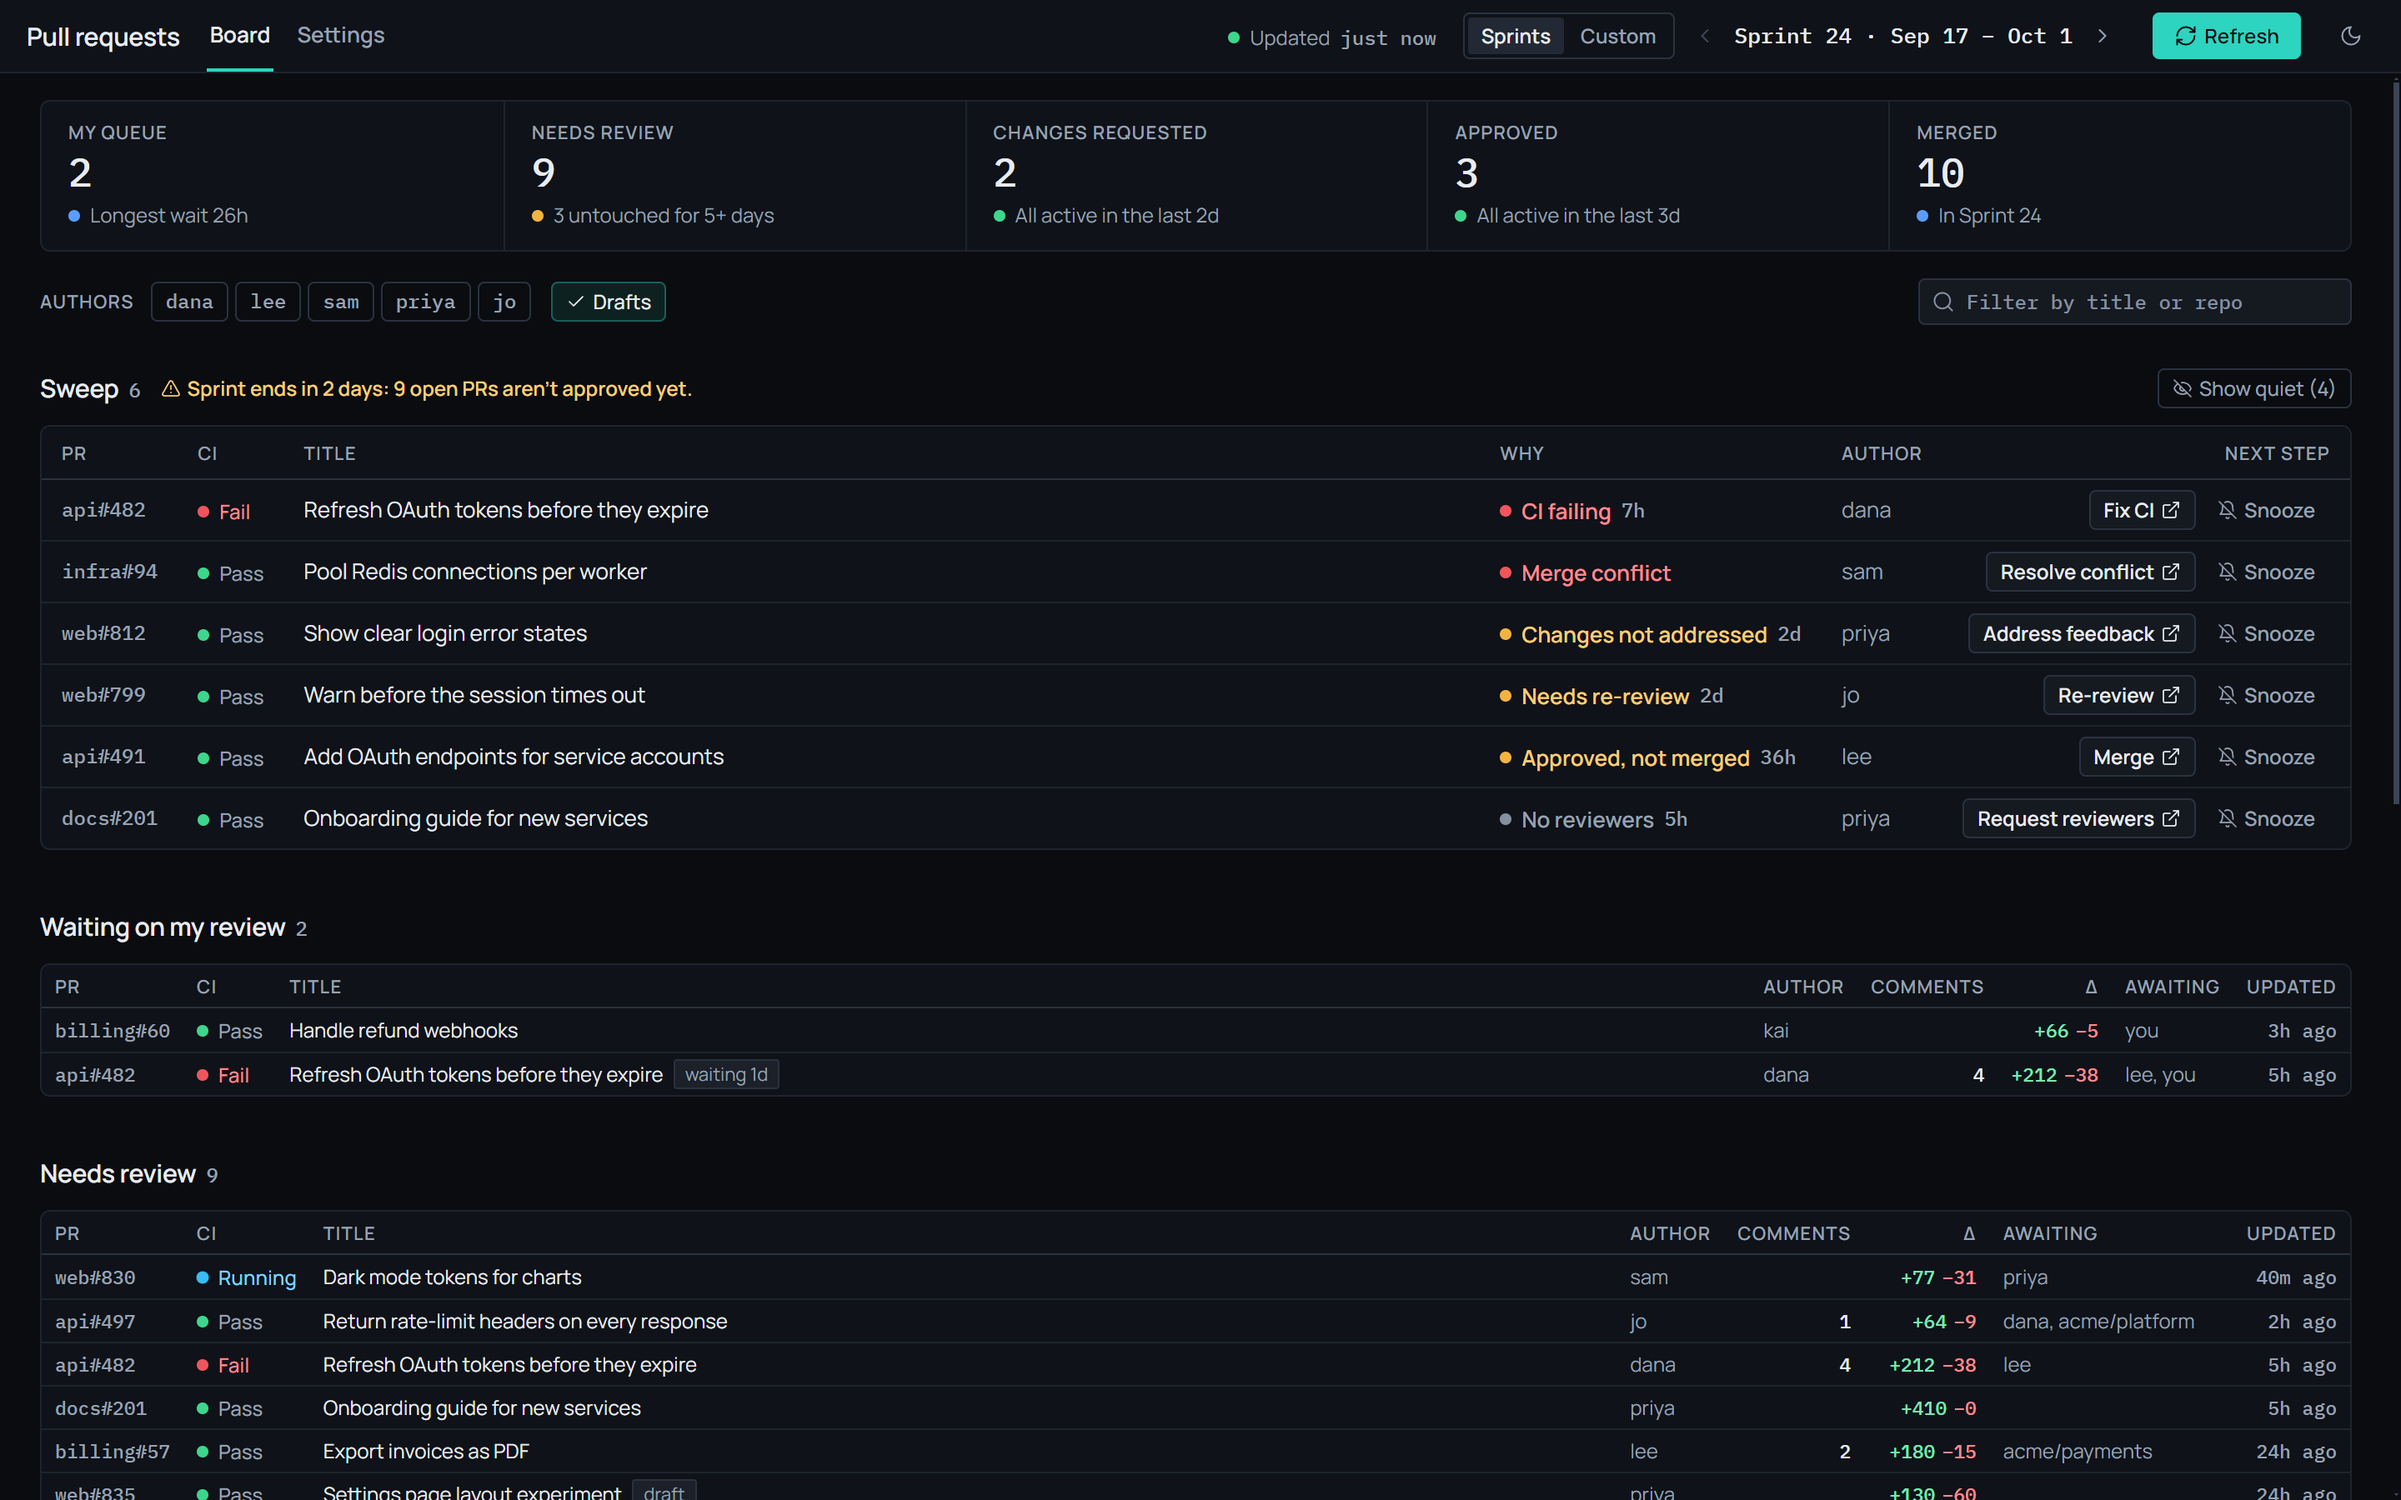
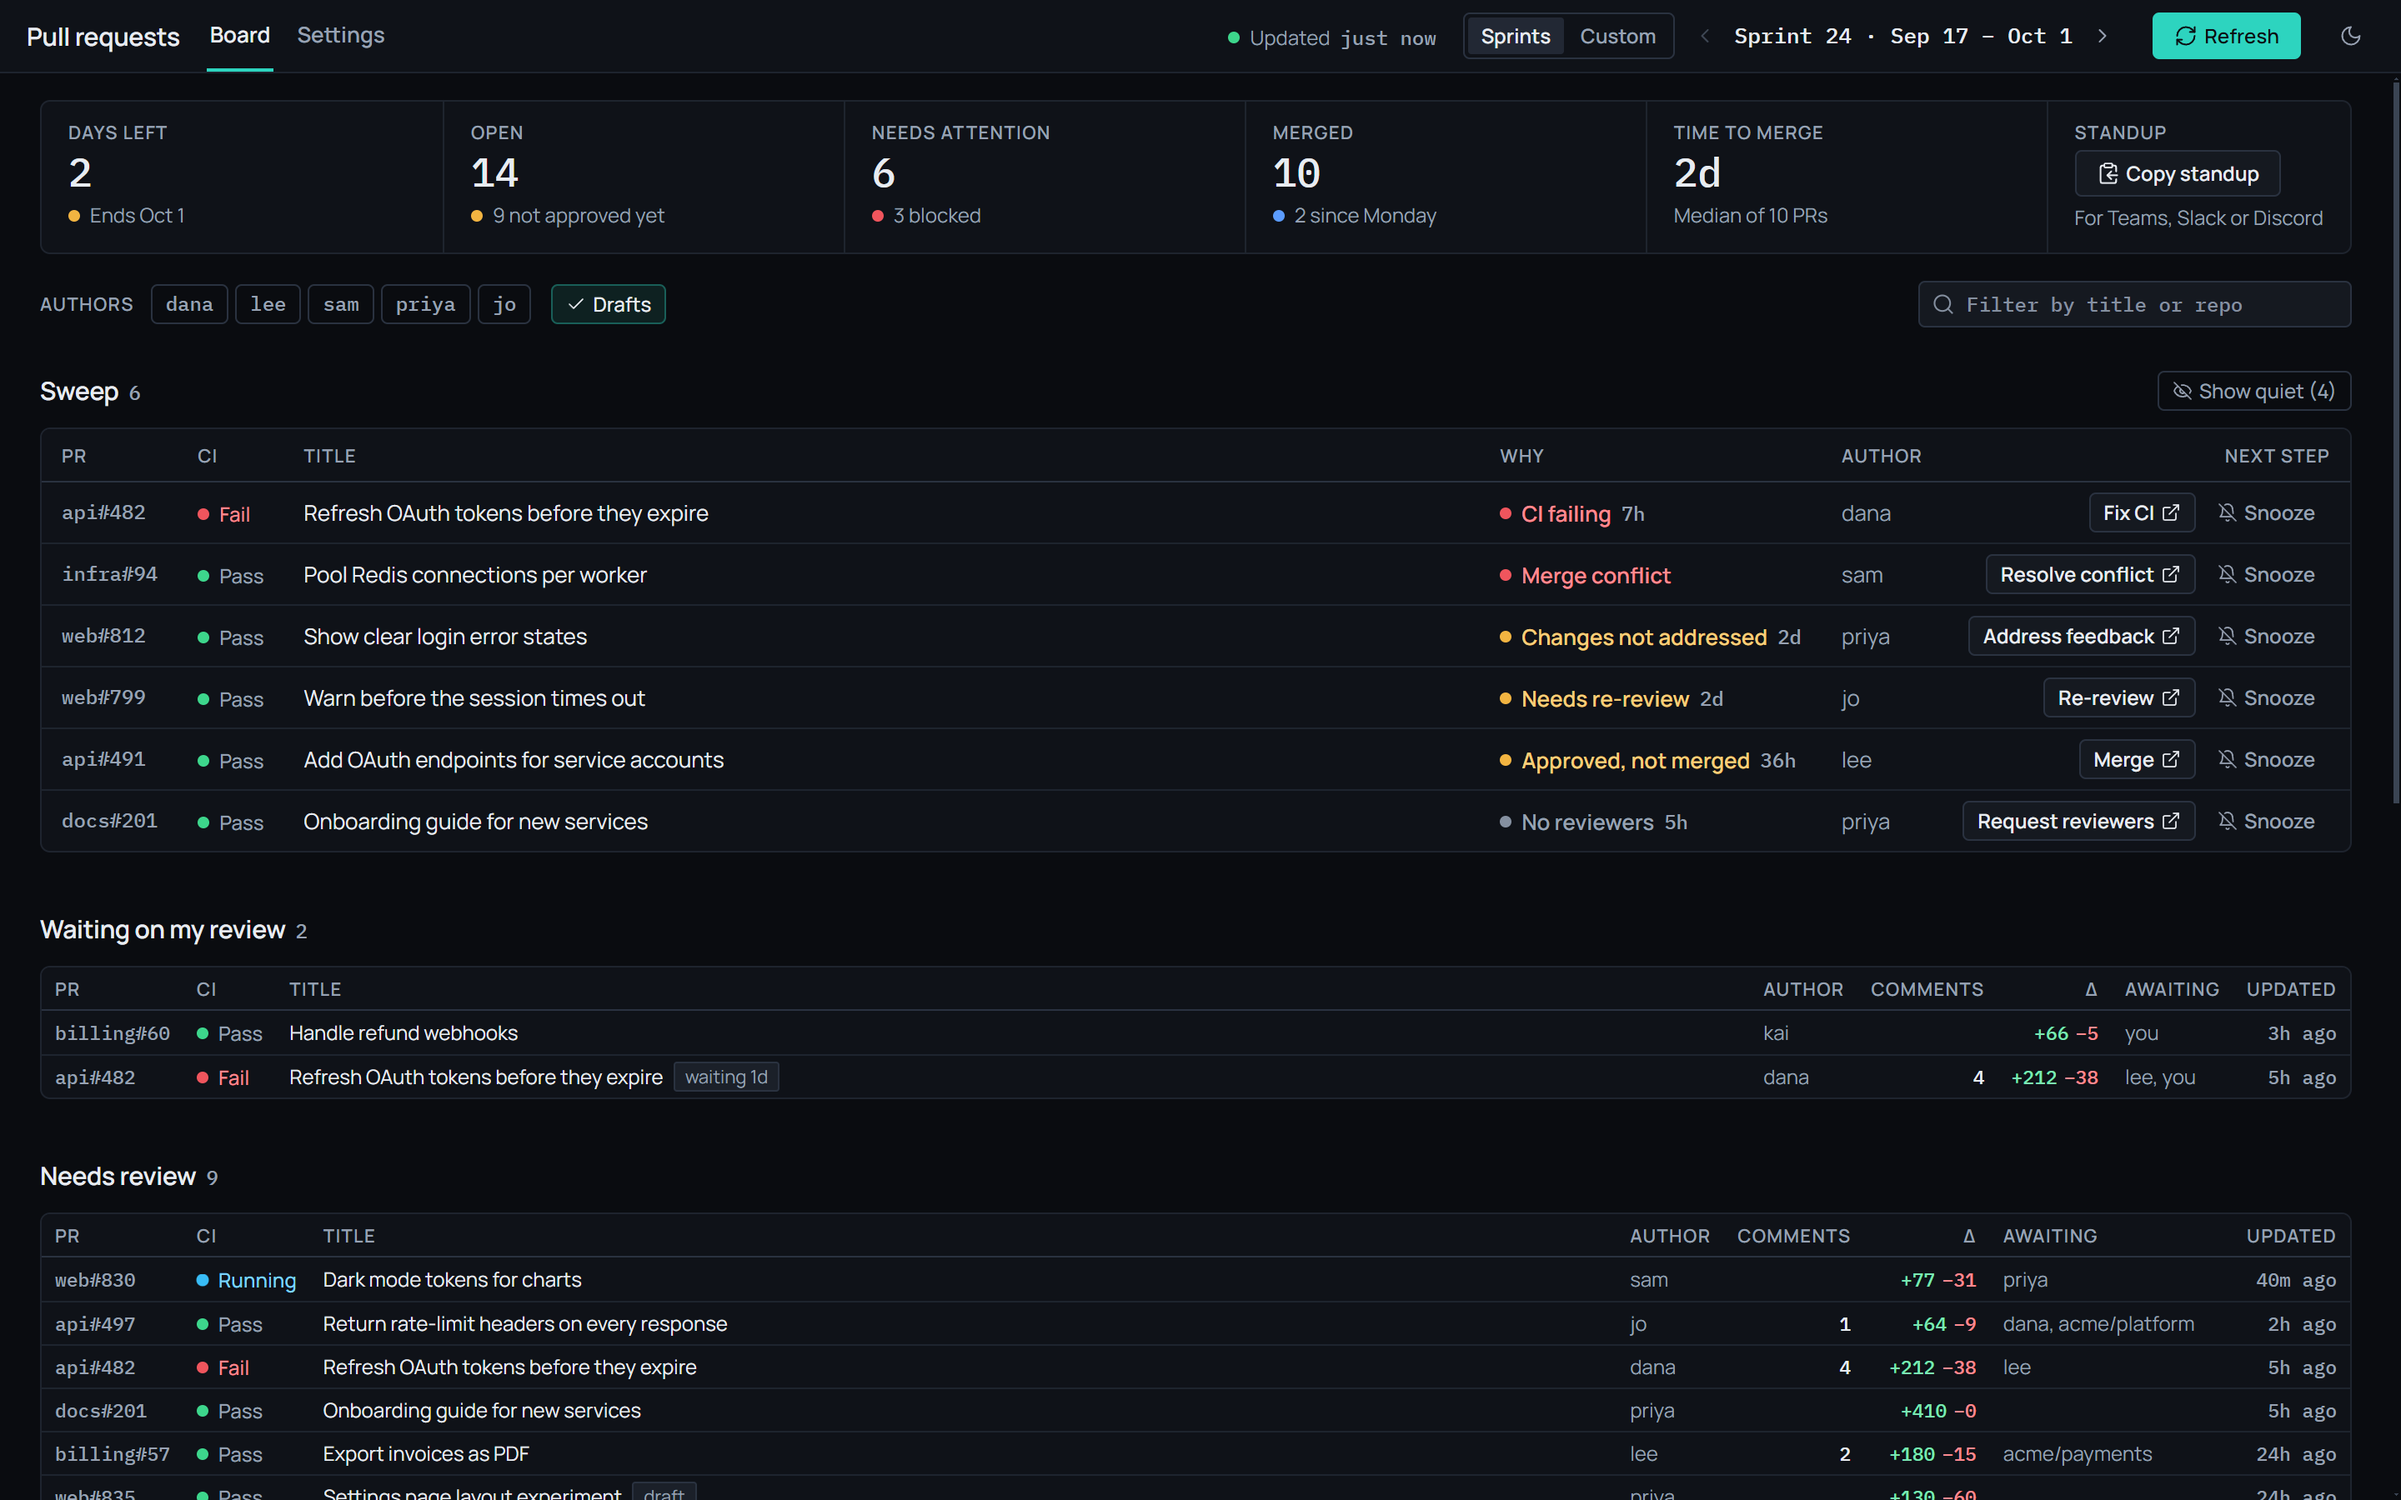
docs(readme): the sprint summary and Copy standup, with new screenshots

diff --git a/README.md b/README.md
@@ -24,7 +24,7 @@ Set the org, the team and your sprint schedule once. It refreshes every five min
 
 <picture>
   <source media="(prefers-color-scheme: dark)" srcset="docs/screenshots/board-dark.png">
-  <img alt="The board for a sample team in Sprint 24: a strip of counts for My queue, Needs review, Changes requested, Approved and Merged, author filter chips, the Sweep listing each stuck PR with its CI status, why it's stuck, for how long and a next-step button, then a table per section" src="docs/screenshots/board.png">
+  <img alt="The board for a sample team in Sprint 24: a strip with days left, open PRs, PRs needing attention, merged PRs, median time to merge and a Copy standup button, then author filter chips, the Sweep listing each stuck PR with its CI status, why it's stuck, for how long and a next-step button, then a table per section" src="docs/screenshots/board.png">
 </picture>
 
 ## Install
@@ -66,8 +66,14 @@ Grab a build from [Releases](../../releases).
   feedback nobody has addressed, pushes waiting on a re-review, approvals nobody merged, and PRs
   nobody was asked to review. Each row says how long it has been that way, with a one-click next
   step. PRs that are only waiting or stale, or untouched for a month, sit behind a toggle, and
-  you can snooze a row until it changes or tomorrow. In a sprint's last two days, it also says how
-  many open PRs aren't approved yet.
+  you can snooze a row until it changes or tomorrow.
+- **Sums up the sprint** at the top: days left, what's open and not yet approved, what needs
+  attention and how much of it is blocked, what merged since yesterday, and the median time to
+  merge. It always counts the whole team, whatever you filter. In the sprint's last two days it
+  warns about PRs that aren't approved yet.
+- **Copies a standup** in one click: what merged since the last working day, then what's
+  blocked, what needs attention and what's in review, each PR once, with links. It pastes
+  formatted into Teams and Slack, and as Markdown into Discord, without preview cards piling up.
 - **Knows your sprint.** Give it the first sprint's start and the sprint length, and the board
   opens on the current sprint, moves on when it ends, and steps back and forward with the arrows.
   Rename a sprint or make one longer, and the sprints after it follow.
